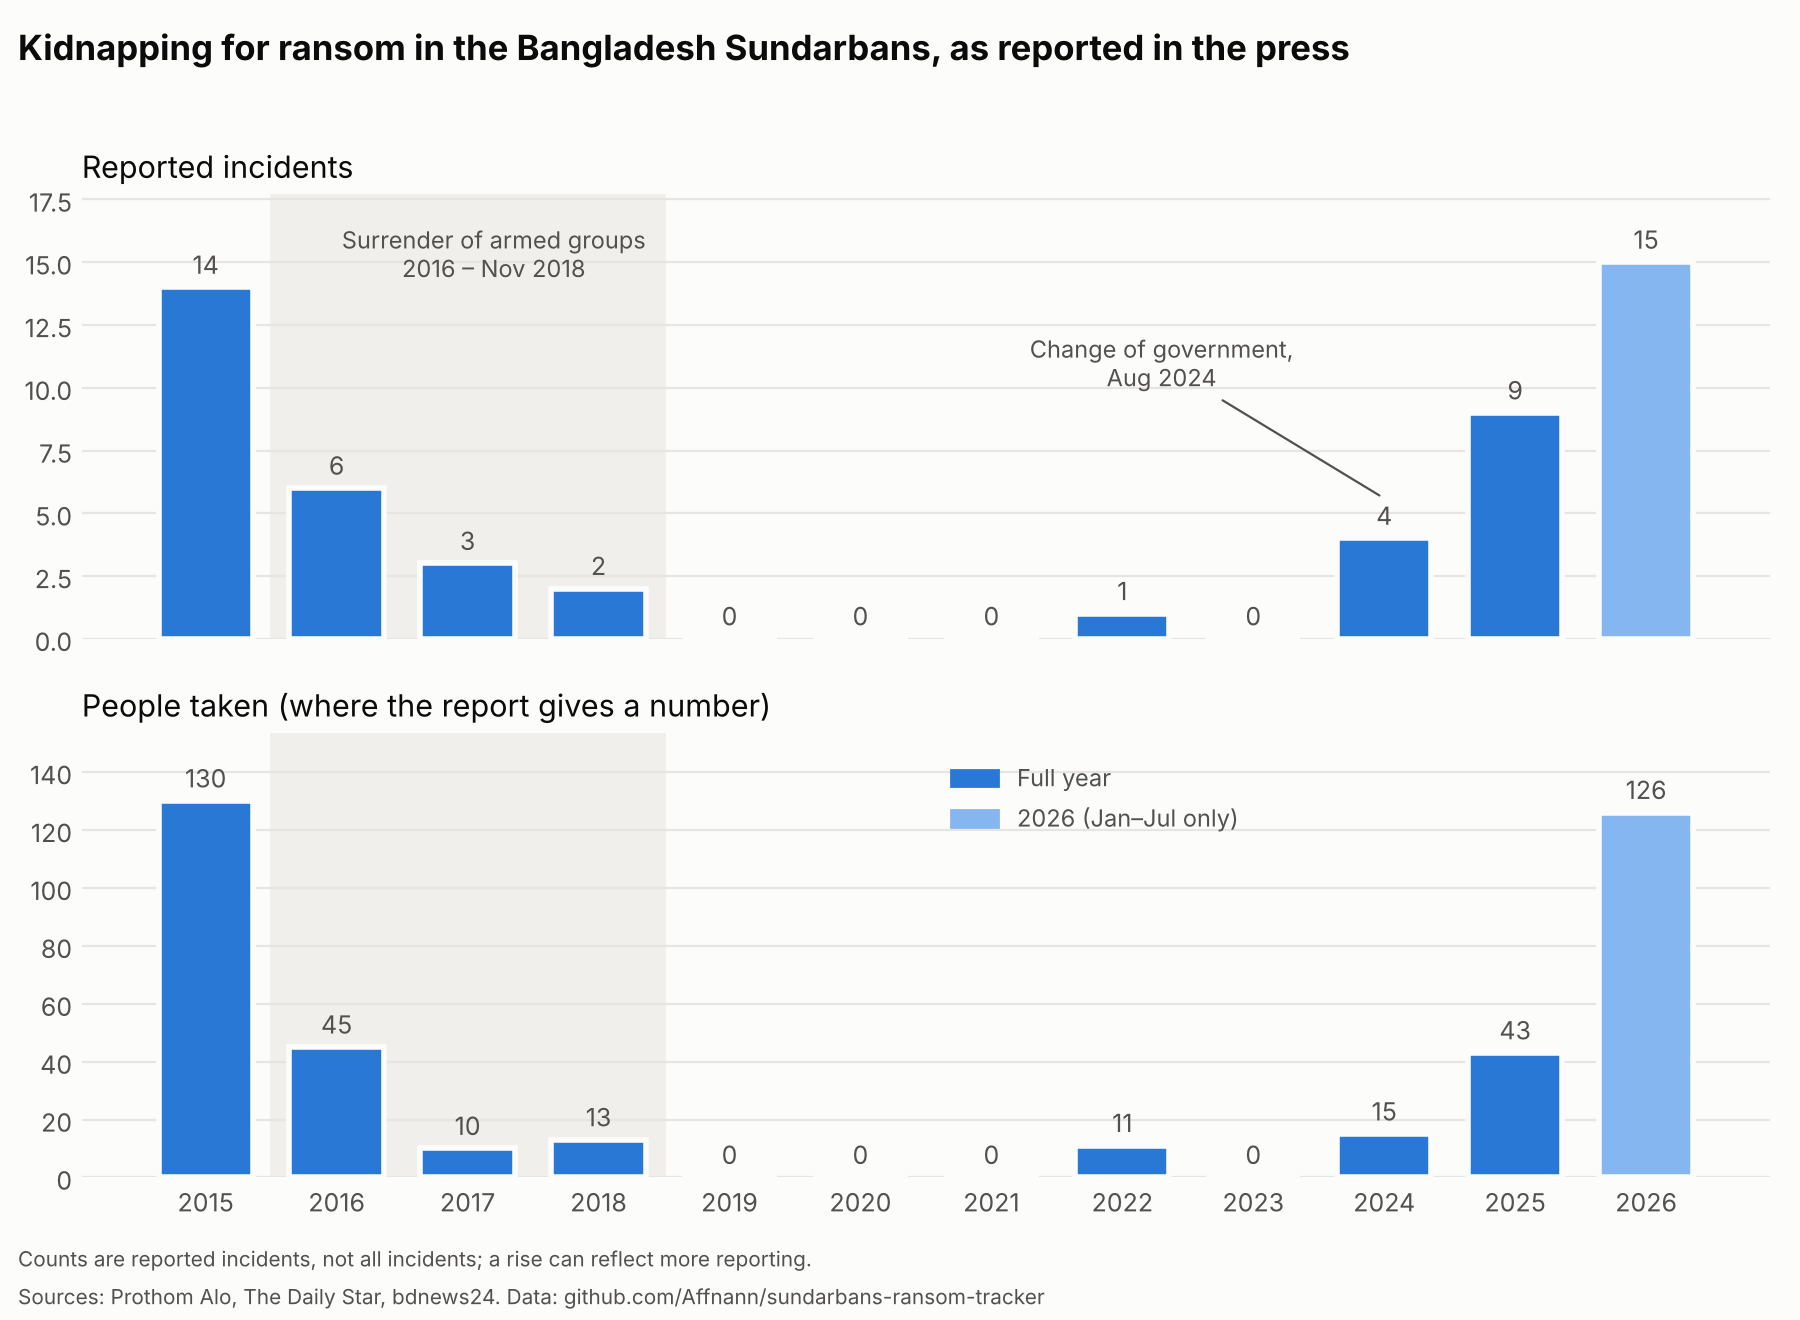
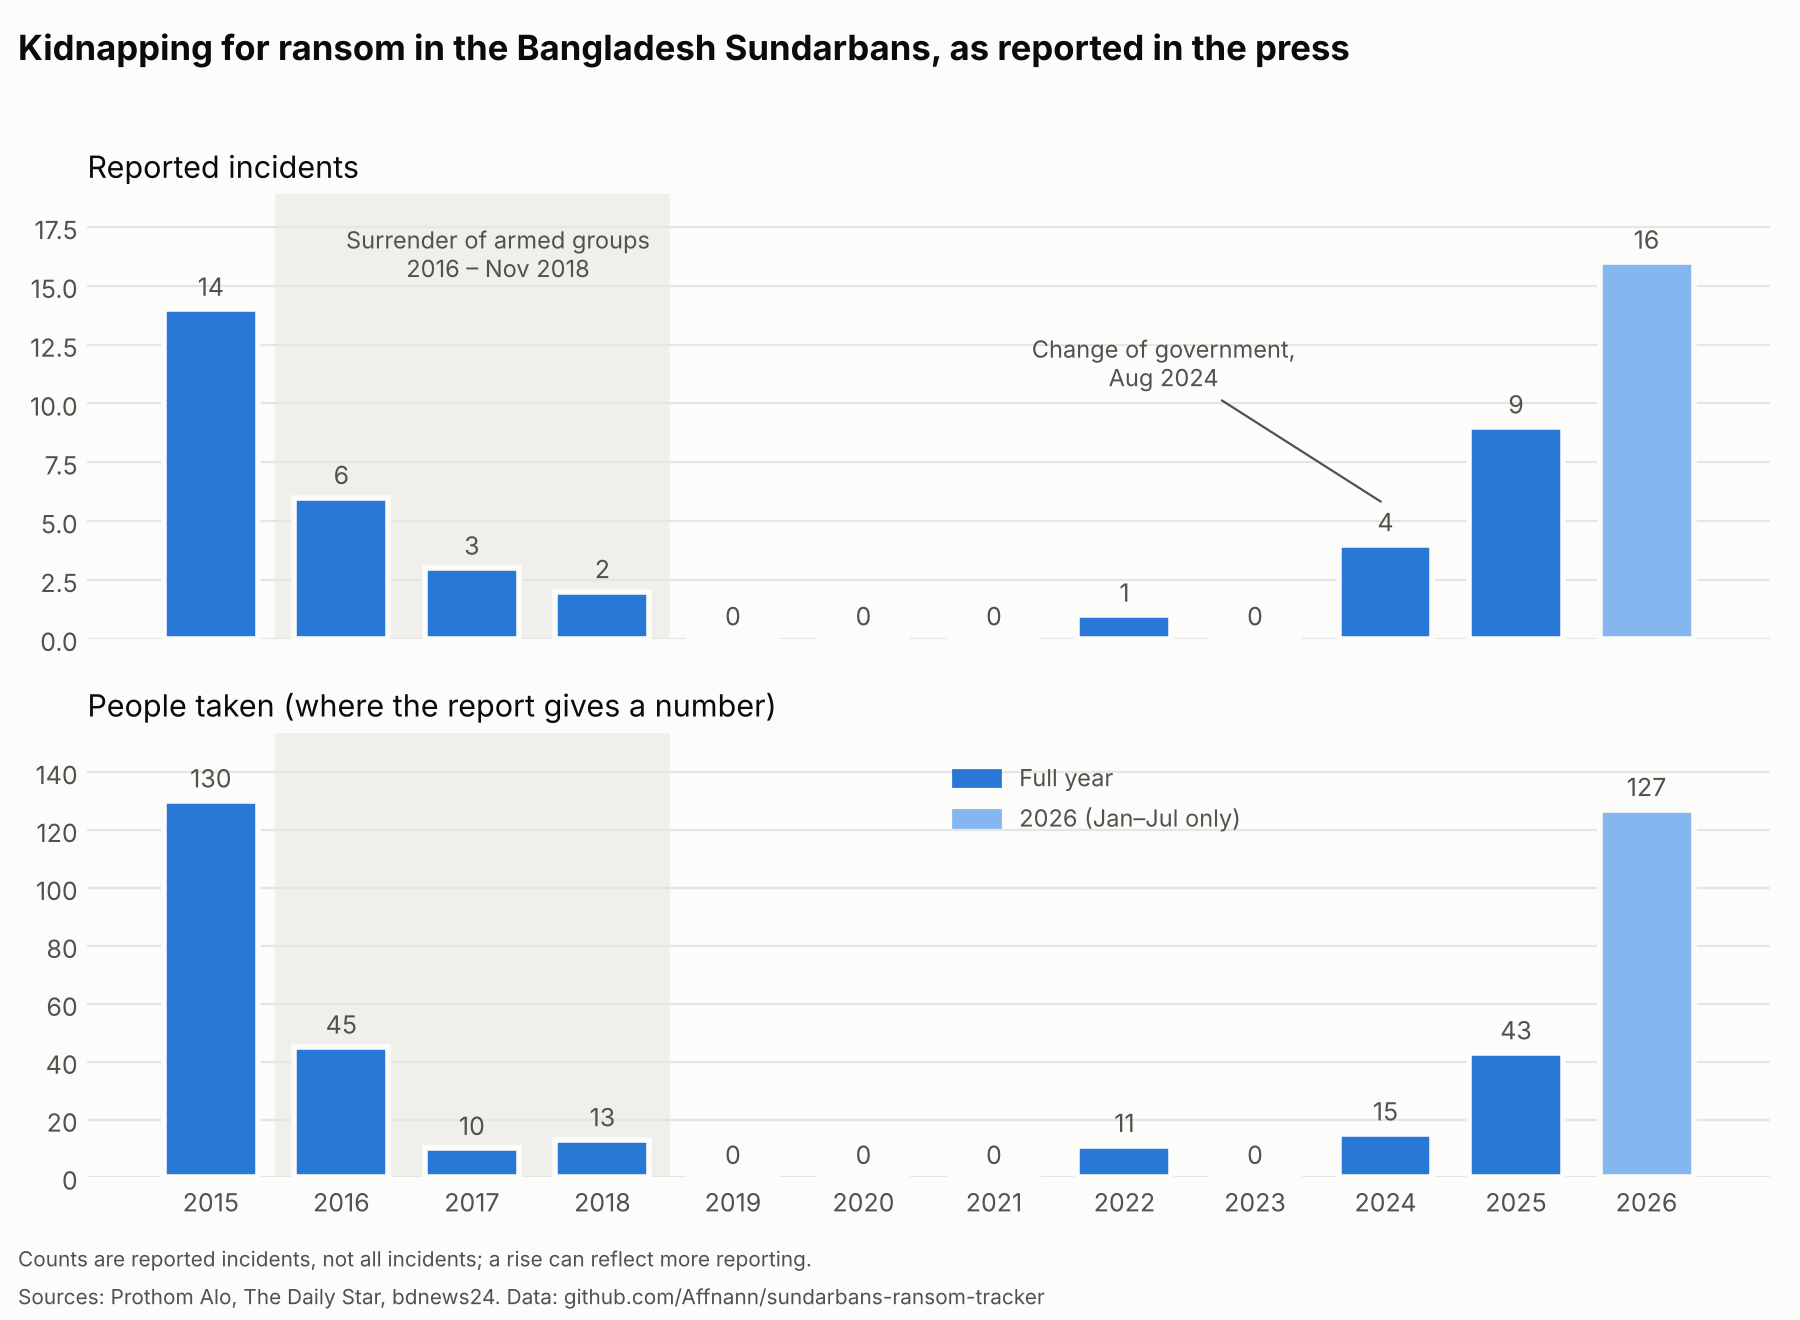
Add July 2026 rescue, one protection payment, and a coverage note

diff --git a/README.md b/README.md
@@ -4,7 +4,7 @@ A hand-coded record of kidnapping-for-ransom incidents in the Bangladesh Sundarb
 
 Fishers, crab collectors, honey gatherers and woodcutters who work in the Sundarbans forest have long been abducted by armed groups and held until their families pay. No official dataset of these incidents exists. This project builds one from news coverage, mostly in Bangla, so that the size, prices and timing of the ransom trade can be measured, including before and after the 2016–2018 surrender campaign.
 
-**Status:** 54 incidents (February 2015 to June 2026) from Prothom Alo, The Daily Star and bdnews24, plus 7 records of protection payments.
+**Status:** 55 incidents (February 2015 to July 2026) from Prothom Alo, The Daily Star and bdnews24, plus 8 records of protection payments.
 
 ![Reported incidents and people taken, by year](figures/incidents_by_year.png)
 
@@ -30,6 +30,7 @@ Most reports name only a forest range, river or canal, not an upazila. Of the in
 - It counts **reported** incidents. Many abductions are never reported, so totals are a lower bound.
 - Ransom amounts come from press reports, often from relatives, and are not verified.
 - Coverage depends on which outlets were searched and how their archives are indexed.
+- The Coast Guard said it had rescued 41 hostages between 12 February and 8 July 2026; this dataset has press reports for about 32 of them, so some rescues never reached the press.
 - Only one incident was found for 2019 to 2023. That fits the 2016–2018 surrender of armed groups, but quieter reporting could also explain part of it.
 
 ## Protection payments
